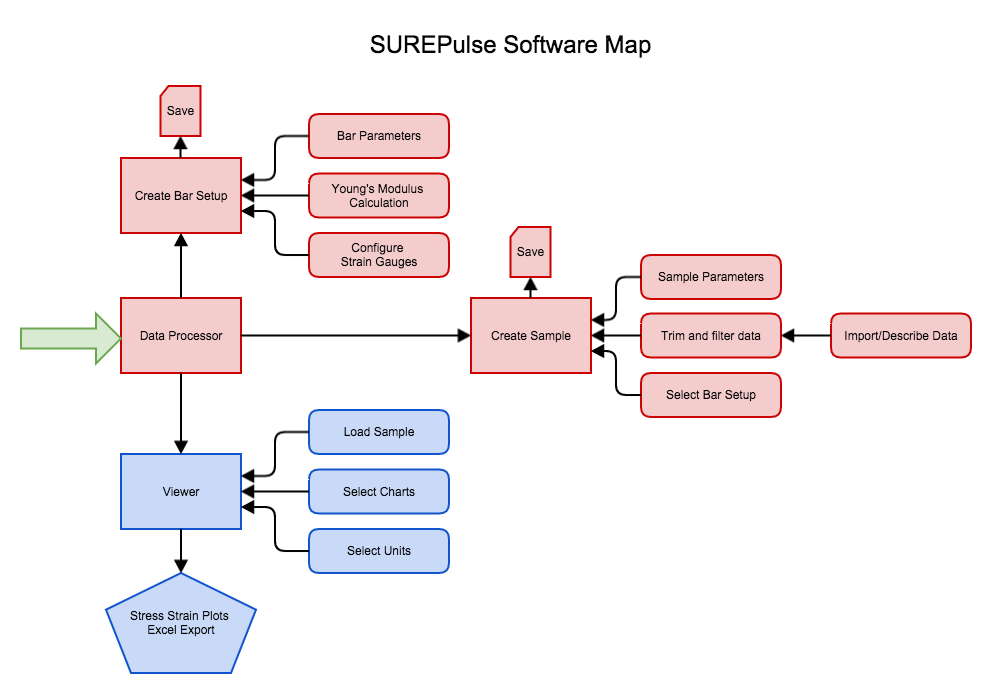
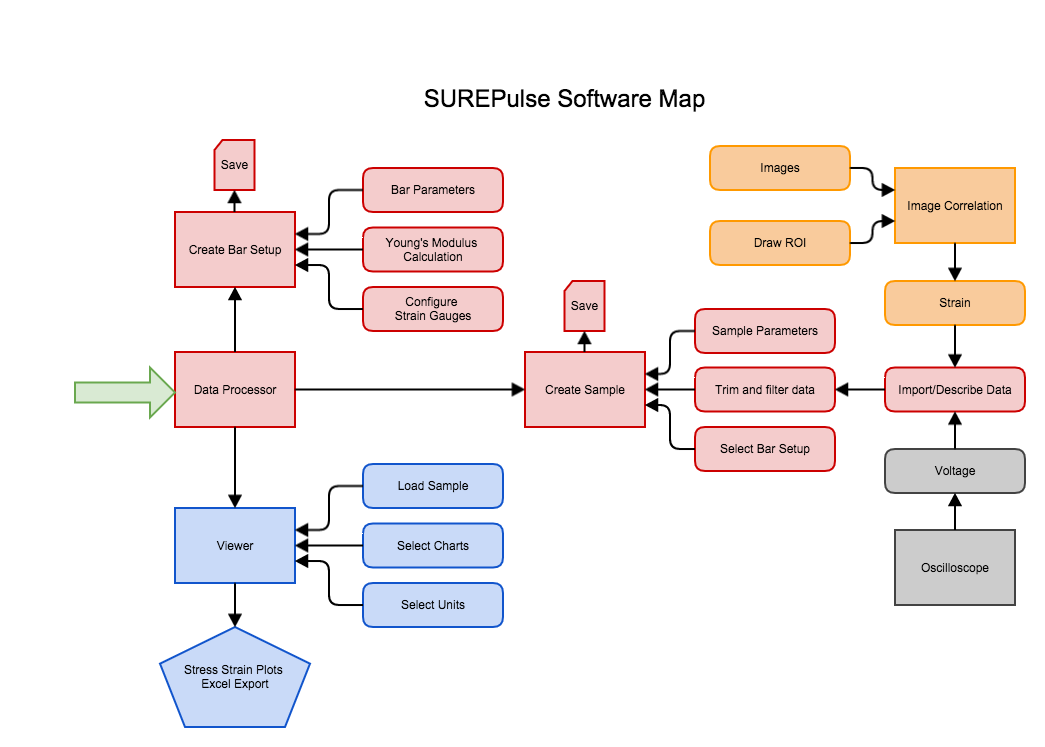
update software map image and integrating fitter

Changed region(s): [[0.0, 0.1223, 1.0, 0.8253], [0.091, 0.5808, 0.4853, 1.0], [0.364, 0.0306, 0.6673, 0.0917]]

diff --git a/src/net/relinc/processor/data/DataSubset.java b/src/net/relinc/processor/data/DataSubset.java
@@ -1,6 +1,14 @@
 package net.relinc.processor.data;
 
+import java.util.ArrayList;
+import java.util.Arrays;
+
+import com.google.gson.Gson;
+
+import net.relinc.fitter.application.FitableDataset;
+import net.relinc.processor.sample.Sample;
 import net.relinc.processor.staticClasses.SPMath;
+import net.relinc.processor.staticClasses.SPOperations;
 import net.relinc.processor.staticClasses.SPSettings;
 
 public abstract class DataSubset {
@@ -11,6 +19,8 @@ public abstract class DataSubset {
 	public DataFileInfo fileInfo;
 	public LowPassFilter filter = new LowPassFilter();
 	public boolean filterActive = false;
+	public FitableDataset fitableDataset;
+	public boolean fittedDatasetActive = false;
 	
 	public int getBegin(){
 		return begin;
@@ -60,6 +70,8 @@ public abstract class DataSubset {
 		String modifier = "Begin:" + begin + SPSettings.lineSeperator;
 		modifier += "End:" + end + SPSettings.lineSeperator;
 		modifier += "Lowpass Filter:" + filter.lowPass + SPSettings.lineSeperator;
+		if(fitableDataset != null)
+			modifier += "FitableDataset:" + fitableDataset.getStringForFileWriting() + SPSettings.lineSeperator;
 		return  modifier;
 	}
 	public void readModifier(String s) {
@@ -68,13 +80,21 @@ public abstract class DataSubset {
 			if(line.split(":").length < 2)
 				continue;
 			String description = line.split(":")[0];
-			String value = line.split(":")[1];
+			String value = line.substring(description.length() + 1);//line.split(":")[1];
 			if(description.equals("Begin"))
 				setBegin(Integer.parseInt(value));
 			if(description.equals("End"))
 				setEnd(Integer.parseInt(value));
 			if(description.equals("Lowpass Filter"))
 				filter.lowPass = Double.parseDouble(value);
+			if(description.equals("FitableDataset")){
+				Gson gson = new Gson();
+				fitableDataset = gson.fromJson(value, FitableDataset.class); //don't know if this works yet
+				fitableDataset.origX = SPOperations.doubleArrayListFromDoubleArray(Data.timeData);
+				fitableDataset.origY = SPOperations.doubleArrayListFromDoubleArray(Data.data);
+				fitableDataset.renderFittedData();
+				fitableDataset.setName(name);
+			}
 		}
 	}
 	
@@ -90,14 +110,21 @@ public abstract class DataSubset {
 	}
 
 	public double[] getTrimmedData(){
-		double[] data = new double[end - begin + 1];
-		for(int i = 0; i < data.length; i++){
-			data[i] = Data.data[i + begin];
+		double[] fullData = Data.data;//copy
+		//point remover / polynomial smoothing here
+		if(fittedDatasetActive && fitableDataset != null)
+		{
+			//so the fitable dataset must be populated on loading...
+			fullData = fitableDataset.fittedY.stream().mapToDouble(d -> d).toArray(); //might be from SO
 		}
 		if(filterActive && filter.lowPass != -1){
-			data = SPMath.fourierLowPassFilter(data, filter.lowPass, 1 / (Data.timeData[1] - Data.timeData[0]));
+			fullData = SPMath.fourierLowPassFilter(fullData, filter.lowPass, 1 / (Data.timeData[1] - Data.timeData[0]));
 		}
-		//point remover / polynomial smoothing
+		double[] data = new double[end - begin + 1];
+		for(int i = 0; i < data.length; i++){
+			data[i] = fullData[i + begin];
+		}
+		
 		return data;
 	}
 	abstract public double[] getUsefulTrimmedData();

diff --git a/src/net/relinc/processor/controllers/TrimDataController.java b/src/net/relinc/processor/controllers/TrimDataController.java
@@ -550,8 +550,9 @@ public class TrimDataController {
 			primaryStage.setScene(scene);
 			HomeController c = root1.<HomeController>getController();
 			c.renderGUI();
-			FitableDataset d = convertToFitableDataset(getActivatedData());
-			c.datasetsListView.getItems().add(d);
+			if(getActivatedData().fitableDataset == null)
+				getActivatedData().fitableDataset = convertToFitableDataset(getActivatedData());
+			c.datasetsListView.getItems().add(getActivatedData().fitableDataset);
 			c.datasetsListView.getSelectionModel().select(0);
 			c.renderGUI();
 			
@@ -626,8 +627,7 @@ public class TrimDataController {
 		double beginY = Math.min(p1.getY(), p2.getY());
 		double width = Math.abs(p1.getX() - p2.getX());
 		double height = Math.abs(p1.getY() - p2.getY());
-		return new Rectangle(beginX, beginY, width, height);
-				
+		return new Rectangle(beginX, beginY, width, height);		
 	}
 	
 	public void leftArrowButtonFired(){
@@ -815,6 +815,7 @@ public class TrimDataController {
 //            series1.getData().add(new Data<Number, Number>(xData[i], yData[i]));
 //            i += xData.length / dataPointsToShow;
 //        }
+        
         
         chart.getData().clear();
         chart.getData().addAll(series1);

diff --git a/src/net/relinc/processor/staticClasses/SPOperations.java b/src/net/relinc/processor/staticClasses/SPOperations.java
@@ -19,6 +19,7 @@ import java.net.URL;
 import java.net.URLConnection;
 import java.nio.channels.ScatteringByteChannel;
 import java.util.ArrayList;
+import java.util.Arrays;
 import java.util.List;
 import org.apache.commons.math3.analysis.polynomials.PolynomialFunction;
 import org.apache.commons.math3.fitting.PolynomialCurveFitter;
@@ -786,6 +787,13 @@ public final class SPOperations {
 		if(s == null || s.trim().equals(""))
 			return null;
 		return s.split("\n")[0].split(":").length > 1 ? s.split("\n")[0].split(":")[1] : null;
+	}
+	
+	public static ArrayList<Double> doubleArrayListFromDoubleArray(double[] input){
+		ArrayList<Double> list = new ArrayList<>(input.length);
+		for(double d : input)
+			list.add(d);
+		return list;
 	}
 
 
